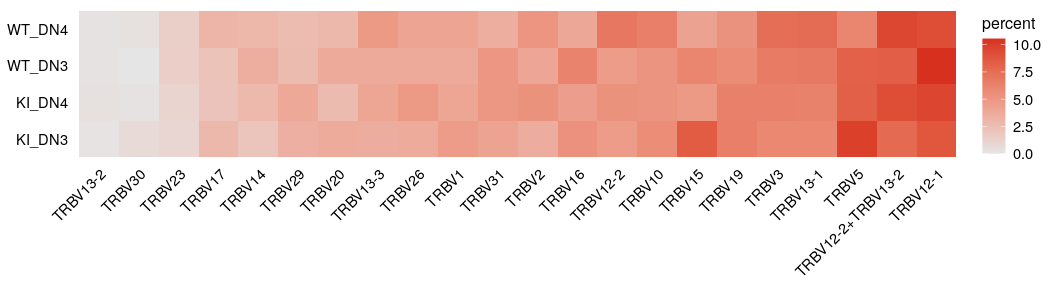
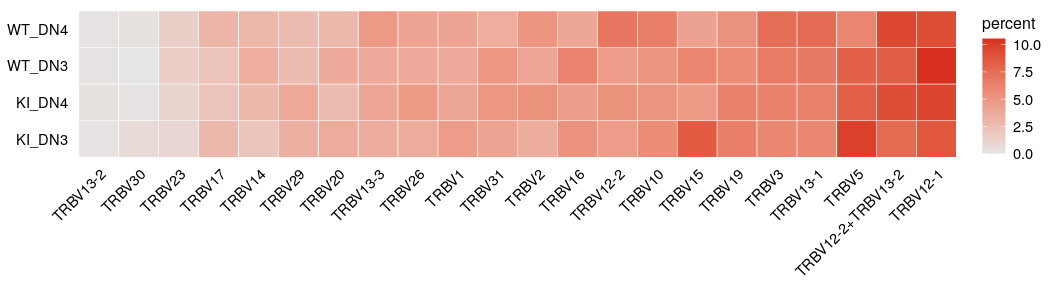
import_vdj bug

diff --git a/README.md b/README.md
@@ -51,7 +51,7 @@ for the vector.
 ``` r
 # Create vector of paths for cellranger output
 samples <- levels(so_tcr$orig.ident)
-paths   <- file.path("data", str_c(samples, "_TCR"), "outs")
+paths   <- file.path("data", str_c(samples, "_TCR"))
 
 names(paths) <- str_c(samples, "_GE")
 
@@ -76,18 +76,18 @@ so_tcr@meta.data %>%
   filter(!is.na(clonotype_id)) %>%
   select(all_of(vdj_cols))
 #> # A tibble: 3,850 x 7
-#>    clonotype_id cdr3               chains  v_gene      j_gene     reads    umis 
-#>    <chr>        <chr>              <chr>   <chr>       <chr>      <chr>    <chr>
-#>  1 clonotype5   CAVQGANTEVFF       TRB     TRBV17      TRBJ1-1    42590    72   
-#>  2 clonotype6   CASSHPGQNSGNTLYF   TRB     TRBV5       TRBJ1-3    12670    17   
-#>  3 clonotype7   CASSHWGETLYF       TRB     TRBV5       TRBJ2-3    31772    46   
-#>  4 clonotype8   CGARAQGLYNSPLYF    TRB     TRBV20      TRBJ1-6    7124     15   
-#>  5 clonotype9   CTAPAGGQNTEVFF     TRB     TRBV1       TRBJ1-1    4744     8    
-#>  6 clonotype10  CASSQDLDWGGEQFF    TRB     TRBV5       TRBJ2-1    34966    52   
-#>  7 clonotype11  CASRTGGCYEQYF;CAS… TRB;TRB TRBV13-1;T… TRBJ2-7;T… 4166;67… 7;171
-#>  8 clonotype2   CASSPGTENTLYF      TRB     TRBV12-2    TRBJ2-4    9180     18   
-#>  9 clonotype12  CASSLKGARSDYTF     TRB     TRBV12-1    TRBJ1-2    19742    29   
-#> 10 clonotype13  CASRLTGRDSDYTF;CA… TRB;TRB TRBV15;TRB… TRBJ1-2;T… 28860;1… 48;22
+#>    clonotype_id     cdr3             chains  v_gene      j_gene    reads   umis 
+#>    <chr>            <chr>            <chr>   <chr>       <chr>     <chr>   <chr>
+#>  1 WT_DN3_GE_clono… CAVQGANTEVFF     TRB     TRBV17      TRBJ1-1   42590   72   
+#>  2 WT_DN3_GE_clono… CASSHPGQNSGNTLYF TRB     TRBV5       TRBJ1-3   12670   17   
+#>  3 WT_DN3_GE_clono… CASSHWGETLYF     TRB     TRBV5       TRBJ2-3   31772   46   
+#>  4 WT_DN3_GE_clono… CGARAQGLYNSPLYF  TRB     TRBV20      TRBJ1-6   7124    15   
+#>  5 WT_DN3_GE_clono… CTAPAGGQNTEVFF   TRB     TRBV1       TRBJ1-1   4744    8    
+#>  6 WT_DN3_GE_clono… CASSQDLDWGGEQFF  TRB     TRBV5       TRBJ2-1   34966   52   
+#>  7 WT_DN3_GE_clono… CASRTGGCYEQYF;C… TRB;TRB TRBV13-1;T… TRBJ2-7;… 4166;6… 7;171
+#>  8 WT_DN3_GE_clono… CASSPGTENTLYF    TRB     TRBV12-2    TRBJ2-4   9180    18   
+#>  9 WT_DN3_GE_clono… CASSLKGARSDYTF   TRB     TRBV12-1    TRBJ1-2   19742   29   
+#> 10 WT_DN3_GE_clono… CASRLTGRDSDYTF;… TRB;TRB TRBV15;TRB… TRBJ1-2;… 28860;… 48;22
 #> # … with 3,840 more rows
 ```
 
@@ -117,18 +117,18 @@ so_filt@meta.data %>%
   filter(!is.na(clonotype_id)) %>%
   select(all_of(vdj_cols))
 #> # A tibble: 654 x 7
-#>    clonotype_id cdr3             chains   v_gene       j_gene     reads    umis 
-#>    <chr>        <chr>            <chr>    <chr>        <chr>      <chr>    <chr>
-#>  1 clonotype490 CALSGSNTGYQNFYF… TRA;TRB  TRAV15-2-DV… TRAJ49;TR… 2286;13… 3;26 
-#>  2 clonotype7   CAASASANKMIF;CA… TRA;TRB  TRAV14-2;TR… TRAJ47;TR… 19138;2… 13;23
-#>  3 clonotype10  CATTGFASALTF;CA… TRA;TRB… TRAV16D-DV1… TRAJ35;TR… 904;639… 2;6;…
-#>  4 clonotype11  CALGMNYNQGKLIF;… TRA;TRB  TRAV6N-7;TR… TRAJ23;TR… 8336;84… 8;8  
-#>  5 clonotype16  CALISGSFNKLTF;C… TRA;TRB  TRAV12D-2;T… TRAJ4;TRB… 2190;82… 1;10 
-#>  6 clonotype25  CAMRGGEGSWQLIF;… TRA;TRB  TRAV16N;TRB… TRAJ22;TR… 11096;1… 8;11 
-#>  7 clonotype26  CAAYNYAQGLTF;CA… TRA;TRB  TRAV14N-3;T… TRAJ26;TR… 10850;1… 7;15 
-#>  8 clonotype27  CALVMNYNQGKLIF;… TRA;TRB… TRAV13-1;TR… TRAJ23;TR… 16886;1… 13;1…
-#>  9 clonotype29  CAVSNNNNAPRF;CA… TRA;TRB  TRAV3-3;TRB… TRAJ43;TR… 11874;2… 8;25 
-#> 10 clonotype30  CAGHYNVLYF;CASS… TRA;TRB  TRAV7-3;TRB… TRAJ21;TR… 4144;59… 2;6  
+#>    clonotype_id    cdr3            chains   v_gene       j_gene    reads   umis 
+#>    <chr>           <chr>           <chr>    <chr>        <chr>     <chr>   <chr>
+#>  1 WT_DN3_GE_clon… CALSGSNTGYQNFY… TRA;TRB  TRAV15-2-DV… TRAJ49;T… 2286;1… 3;26 
+#>  2 WT_DN4_GE_clon… CAASASANKMIF;C… TRA;TRB  TRAV14-2;TR… TRAJ47;T… 19138;… 13;23
+#>  3 WT_DN4_GE_clon… CATTGFASALTF;C… TRA;TRB… TRAV16D-DV1… TRAJ35;T… 904;63… 2;6;…
+#>  4 WT_DN4_GE_clon… CALGMNYNQGKLIF… TRA;TRB  TRAV6N-7;TR… TRAJ23;T… 8336;8… 8;8  
+#>  5 WT_DN4_GE_clon… CALISGSFNKLTF;… TRA;TRB  TRAV12D-2;T… TRAJ4;TR… 2190;8… 1;10 
+#>  6 WT_DN4_GE_clon… CAMRGGEGSWQLIF… TRA;TRB  TRAV16N;TRB… TRAJ22;T… 11096;… 8;11 
+#>  7 WT_DN4_GE_clon… CAAYNYAQGLTF;C… TRA;TRB  TRAV14N-3;T… TRAJ26;T… 10850;… 7;15 
+#>  8 WT_DN4_GE_clon… CALVMNYNQGKLIF… TRA;TRB… TRAV13-1;TR… TRAJ23;T… 16886;… 13;1…
+#>  9 WT_DN4_GE_clon… CAVSNNNNAPRF;C… TRA;TRB  TRAV3-3;TRB… TRAJ43;T… 11874;… 8;25 
+#> 10 WT_DN4_GE_clon… CAGHYNVLYF;CAS… TRA;TRB  TRAV7-3;TRB… TRAJ21;T… 4144;5… 2;6  
 #> # … with 644 more rows
 ```
 
@@ -158,18 +158,18 @@ so_tcr@meta.data %>%
   filter(!is.na(clonotype_id)) %>%
   select(all_of(vdj_cols), Paired)
 #> # A tibble: 3,850 x 8
-#>    clonotype_id cdr3           chains  v_gene     j_gene    reads   umis  Paired
-#>    <chr>        <chr>          <chr>   <chr>      <chr>     <chr>   <chr> <chr> 
-#>  1 clonotype5   CAVQGANTEVFF   TRB     TRBV17     TRBJ1-1   42590   72    unpai…
-#>  2 clonotype6   CASSHPGQNSGNT… TRB     TRBV5      TRBJ1-3   12670   17    unpai…
-#>  3 clonotype7   CASSHWGETLYF   TRB     TRBV5      TRBJ2-3   31772   46    unpai…
-#>  4 clonotype8   CGARAQGLYNSPL… TRB     TRBV20     TRBJ1-6   7124    15    unpai…
-#>  5 clonotype9   CTAPAGGQNTEVFF TRB     TRBV1      TRBJ1-1   4744    8     unpai…
-#>  6 clonotype10  CASSQDLDWGGEQ… TRB     TRBV5      TRBJ2-1   34966   52    unpai…
-#>  7 clonotype11  CASRTGGCYEQYF… TRB;TRB TRBV13-1;… TRBJ2-7;… 4166;6… 7;171 unpai…
-#>  8 clonotype2   CASSPGTENTLYF  TRB     TRBV12-2   TRBJ2-4   9180    18    unpai…
-#>  9 clonotype12  CASSLKGARSDYTF TRB     TRBV12-1   TRBJ1-2   19742   29    unpai…
-#> 10 clonotype13  CASRLTGRDSDYT… TRB;TRB TRBV15;TR… TRBJ1-2;… 28860;… 48;22 unpai…
+#>    clonotype_id    cdr3          chains  v_gene     j_gene   reads  umis  Paired
+#>    <chr>           <chr>         <chr>   <chr>      <chr>    <chr>  <chr> <chr> 
+#>  1 WT_DN3_GE_clon… CAVQGANTEVFF  TRB     TRBV17     TRBJ1-1  42590  72    unpai…
+#>  2 WT_DN3_GE_clon… CASSHPGQNSGN… TRB     TRBV5      TRBJ1-3  12670  17    unpai…
+#>  3 WT_DN3_GE_clon… CASSHWGETLYF  TRB     TRBV5      TRBJ2-3  31772  46    unpai…
+#>  4 WT_DN3_GE_clon… CGARAQGLYNSP… TRB     TRBV20     TRBJ1-6  7124   15    unpai…
+#>  5 WT_DN3_GE_clon… CTAPAGGQNTEV… TRB     TRBV1      TRBJ1-1  4744   8     unpai…
+#>  6 WT_DN3_GE_clon… CASSQDLDWGGE… TRB     TRBV5      TRBJ2-1  34966  52    unpai…
+#>  7 WT_DN3_GE_clon… CASRTGGCYEQY… TRB;TRB TRBV13-1;… TRBJ2-7… 4166;… 7;171 unpai…
+#>  8 WT_DN3_GE_clon… CASSPGTENTLYF TRB     TRBV12-2   TRBJ2-4  9180   18    unpai…
+#>  9 WT_DN3_GE_clon… CASSLKGARSDY… TRB     TRBV12-1   TRBJ1-2  19742  29    unpai…
+#> 10 WT_DN3_GE_clon… CASRLTGRDSDY… TRB;TRB TRBV15;TR… TRBJ1-2… 28860… 48;22 unpai…
 #> # … with 3,840 more rows
 ```
 
@@ -195,18 +195,18 @@ so_tcr@meta.data %>%
   filter(!is.na(clonotype_id)) %>%
   select(all_of(vdj_cols), uniq_chains)
 #> # A tibble: 3,850 x 8
-#>    clonotype_id cdr3         chains  v_gene    j_gene   reads  umis  uniq_chains
-#>    <chr>        <chr>        <chr>   <chr>     <chr>    <chr>  <chr> <chr>      
-#>  1 clonotype5   CAVQGANTEVFF TRB     TRBV17    TRBJ1-1  42590  72    TRB        
-#>  2 clonotype6   CASSHPGQNSG… TRB     TRBV5     TRBJ1-3  12670  17    TRB        
-#>  3 clonotype7   CASSHWGETLYF TRB     TRBV5     TRBJ2-3  31772  46    TRB        
-#>  4 clonotype8   CGARAQGLYNS… TRB     TRBV20    TRBJ1-6  7124   15    TRB        
-#>  5 clonotype9   CTAPAGGQNTE… TRB     TRBV1     TRBJ1-1  4744   8     TRB        
-#>  6 clonotype10  CASSQDLDWGG… TRB     TRBV5     TRBJ2-1  34966  52    TRB        
-#>  7 clonotype11  CASRTGGCYEQ… TRB;TRB TRBV13-1… TRBJ2-7… 4166;… 7;171 TRB        
-#>  8 clonotype2   CASSPGTENTL… TRB     TRBV12-2  TRBJ2-4  9180   18    TRB        
-#>  9 clonotype12  CASSLKGARSD… TRB     TRBV12-1  TRBJ1-2  19742  29    TRB        
-#> 10 clonotype13  CASRLTGRDSD… TRB;TRB TRBV15;T… TRBJ1-2… 28860… 48;22 TRB        
+#>    clonotype_id    cdr3        chains v_gene   j_gene   reads  umis  uniq_chains
+#>    <chr>           <chr>       <chr>  <chr>    <chr>    <chr>  <chr> <chr>      
+#>  1 WT_DN3_GE_clon… CAVQGANTEV… TRB    TRBV17   TRBJ1-1  42590  72    TRB        
+#>  2 WT_DN3_GE_clon… CASSHPGQNS… TRB    TRBV5    TRBJ1-3  12670  17    TRB        
+#>  3 WT_DN3_GE_clon… CASSHWGETL… TRB    TRBV5    TRBJ2-3  31772  46    TRB        
+#>  4 WT_DN3_GE_clon… CGARAQGLYN… TRB    TRBV20   TRBJ1-6  7124   15    TRB        
+#>  5 WT_DN3_GE_clon… CTAPAGGQNT… TRB    TRBV1    TRBJ1-1  4744   8     TRB        
+#>  6 WT_DN3_GE_clon… CASSQDLDWG… TRB    TRBV5    TRBJ2-1  34966  52    TRB        
+#>  7 WT_DN3_GE_clon… CASRTGGCYE… TRB;T… TRBV13-… TRBJ2-7… 4166;… 7;171 TRB        
+#>  8 WT_DN3_GE_clon… CASSPGTENT… TRB    TRBV12-2 TRBJ2-4  9180   18    TRB        
+#>  9 WT_DN3_GE_clon… CASSLKGARS… TRB    TRBV12-1 TRBJ1-2  19742  29    TRB        
+#> 10 WT_DN3_GE_clon… CASRLTGRDS… TRB;T… TRBV15;… TRBJ1-2… 28860… 48;22 TRB        
 #> # … with 3,840 more rows
 ```
 
@@ -420,7 +420,7 @@ plot_grid(ident_heat, clust_heat, align = "h")
 
 <br>
 
-### VDJ Gene Usage
+### Gene Usage
 
 The V(D)J data imported from Cell Ranger also includes the specific
 genes detected for each cell. The function `calc_usage` can be used to
@@ -479,7 +479,10 @@ plot_usage(
   yaxis       = "percent",               # Units to plot
   plot_colors = c("grey90", "#d7301f"),  # Colors to use for heatmap
   plot_genes  = NULL,                    # A list of genes to plot
-  n_genes     = NULL                     # The number of top genes to plot
+  n_genes     = NULL,                    # The number of top genes to plot
+  
+  size        = 0.2,                     # Additional ggplot options
+  color       = "white"                  # Additional ggplot options
 ) +
   coord_flip()
 ```
